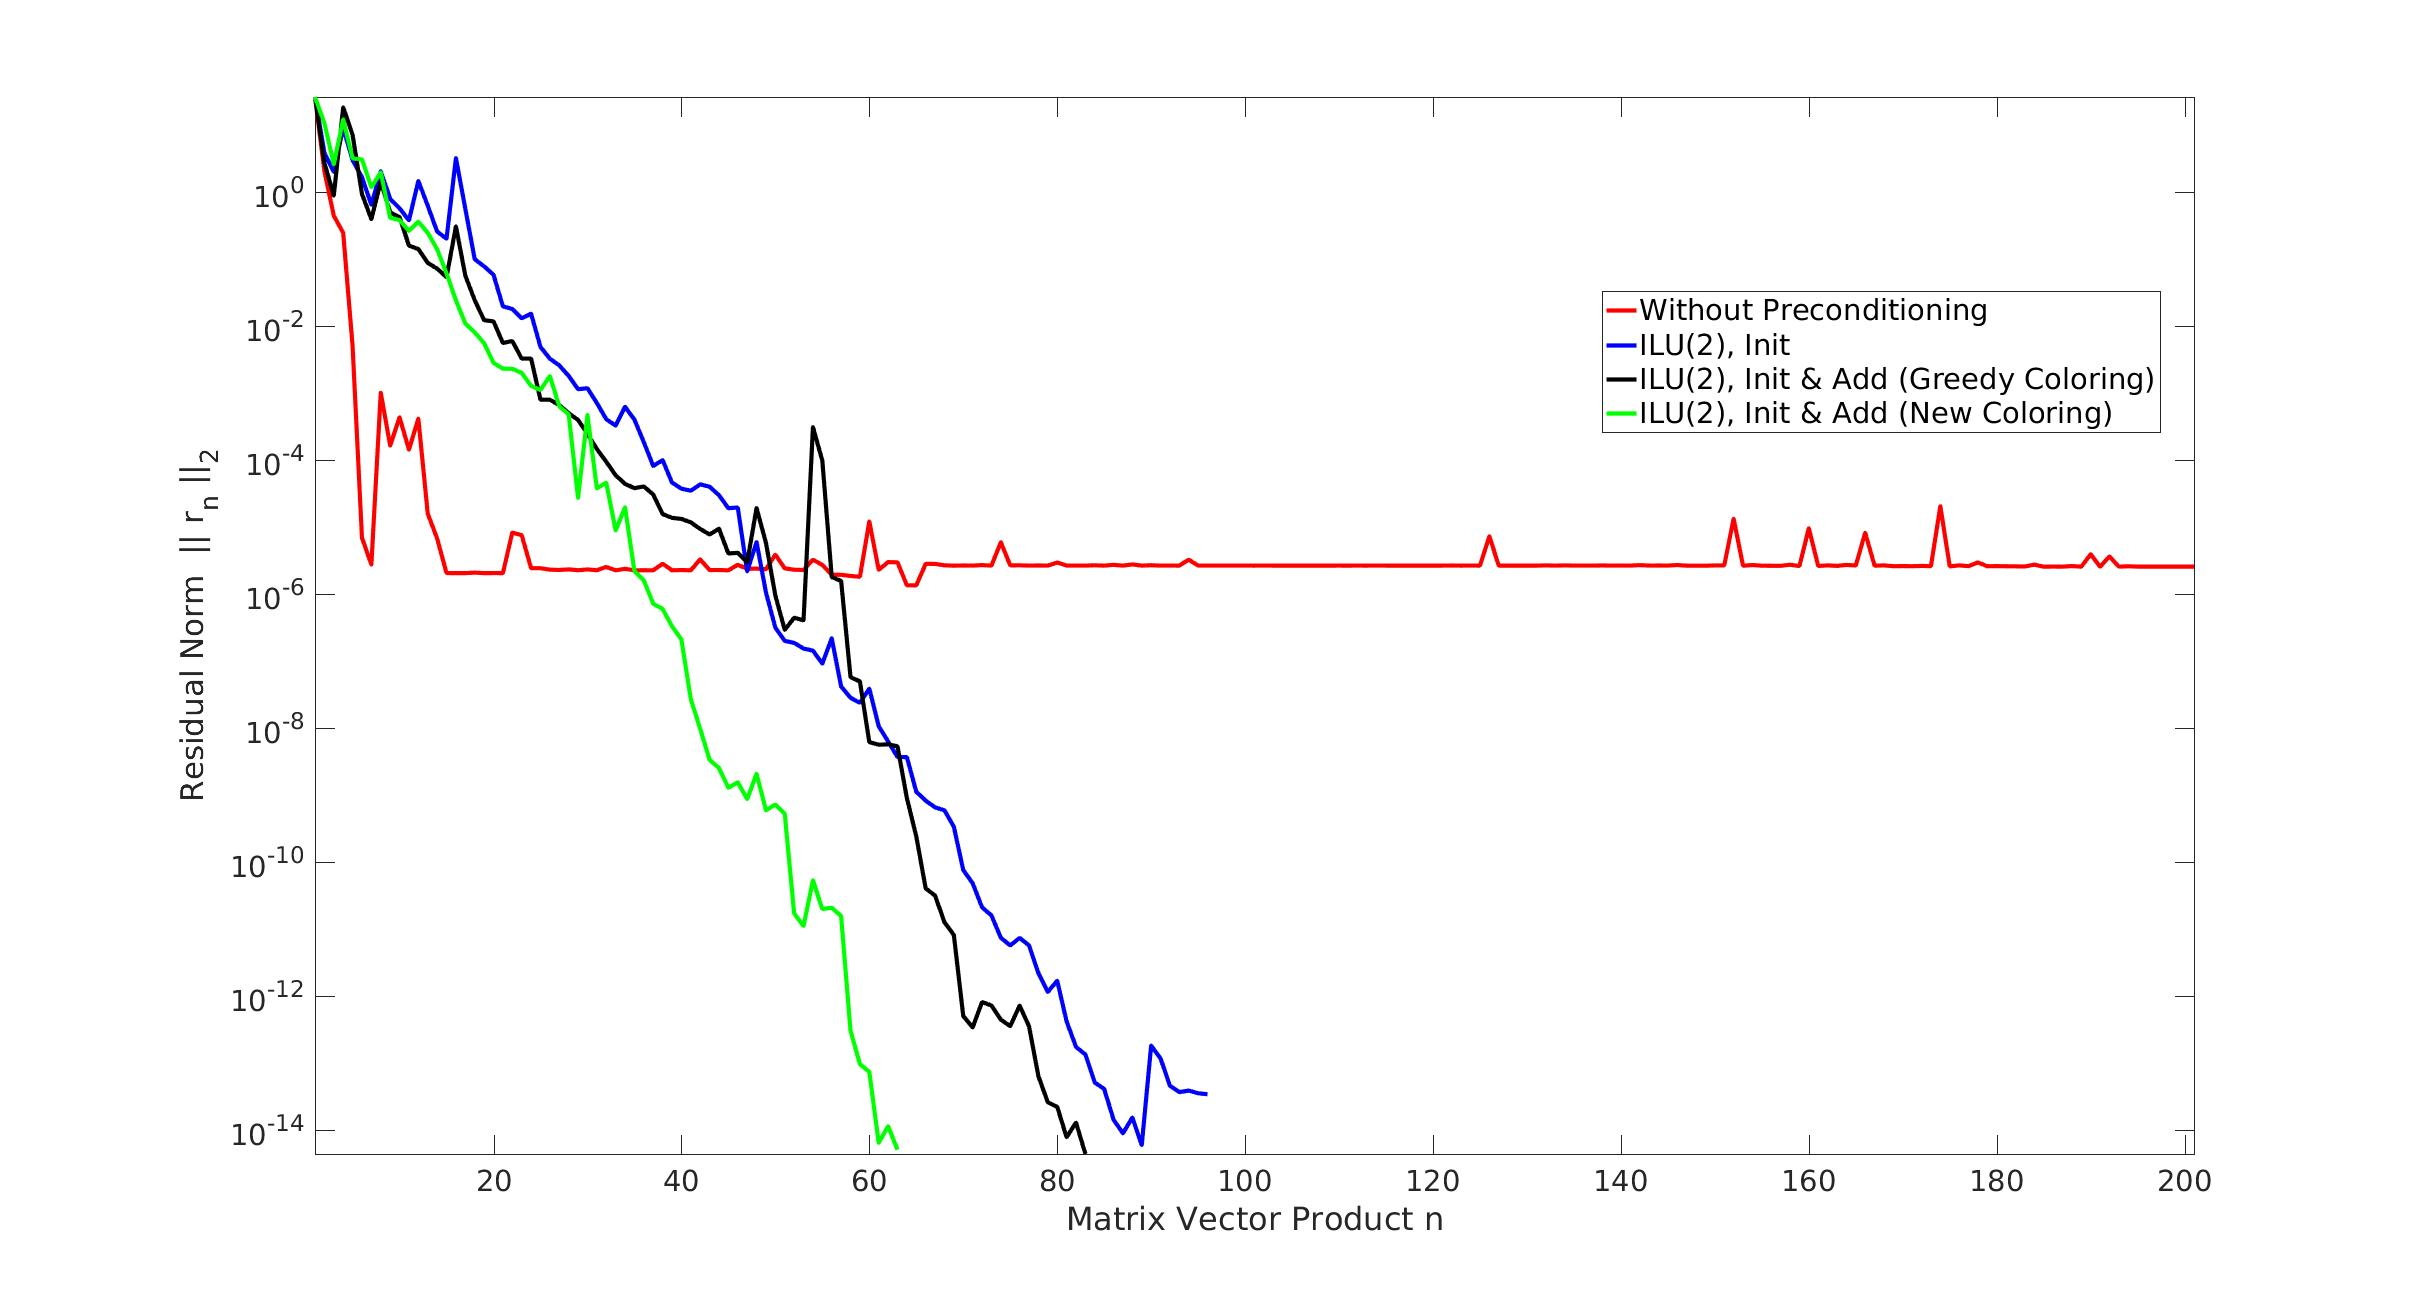
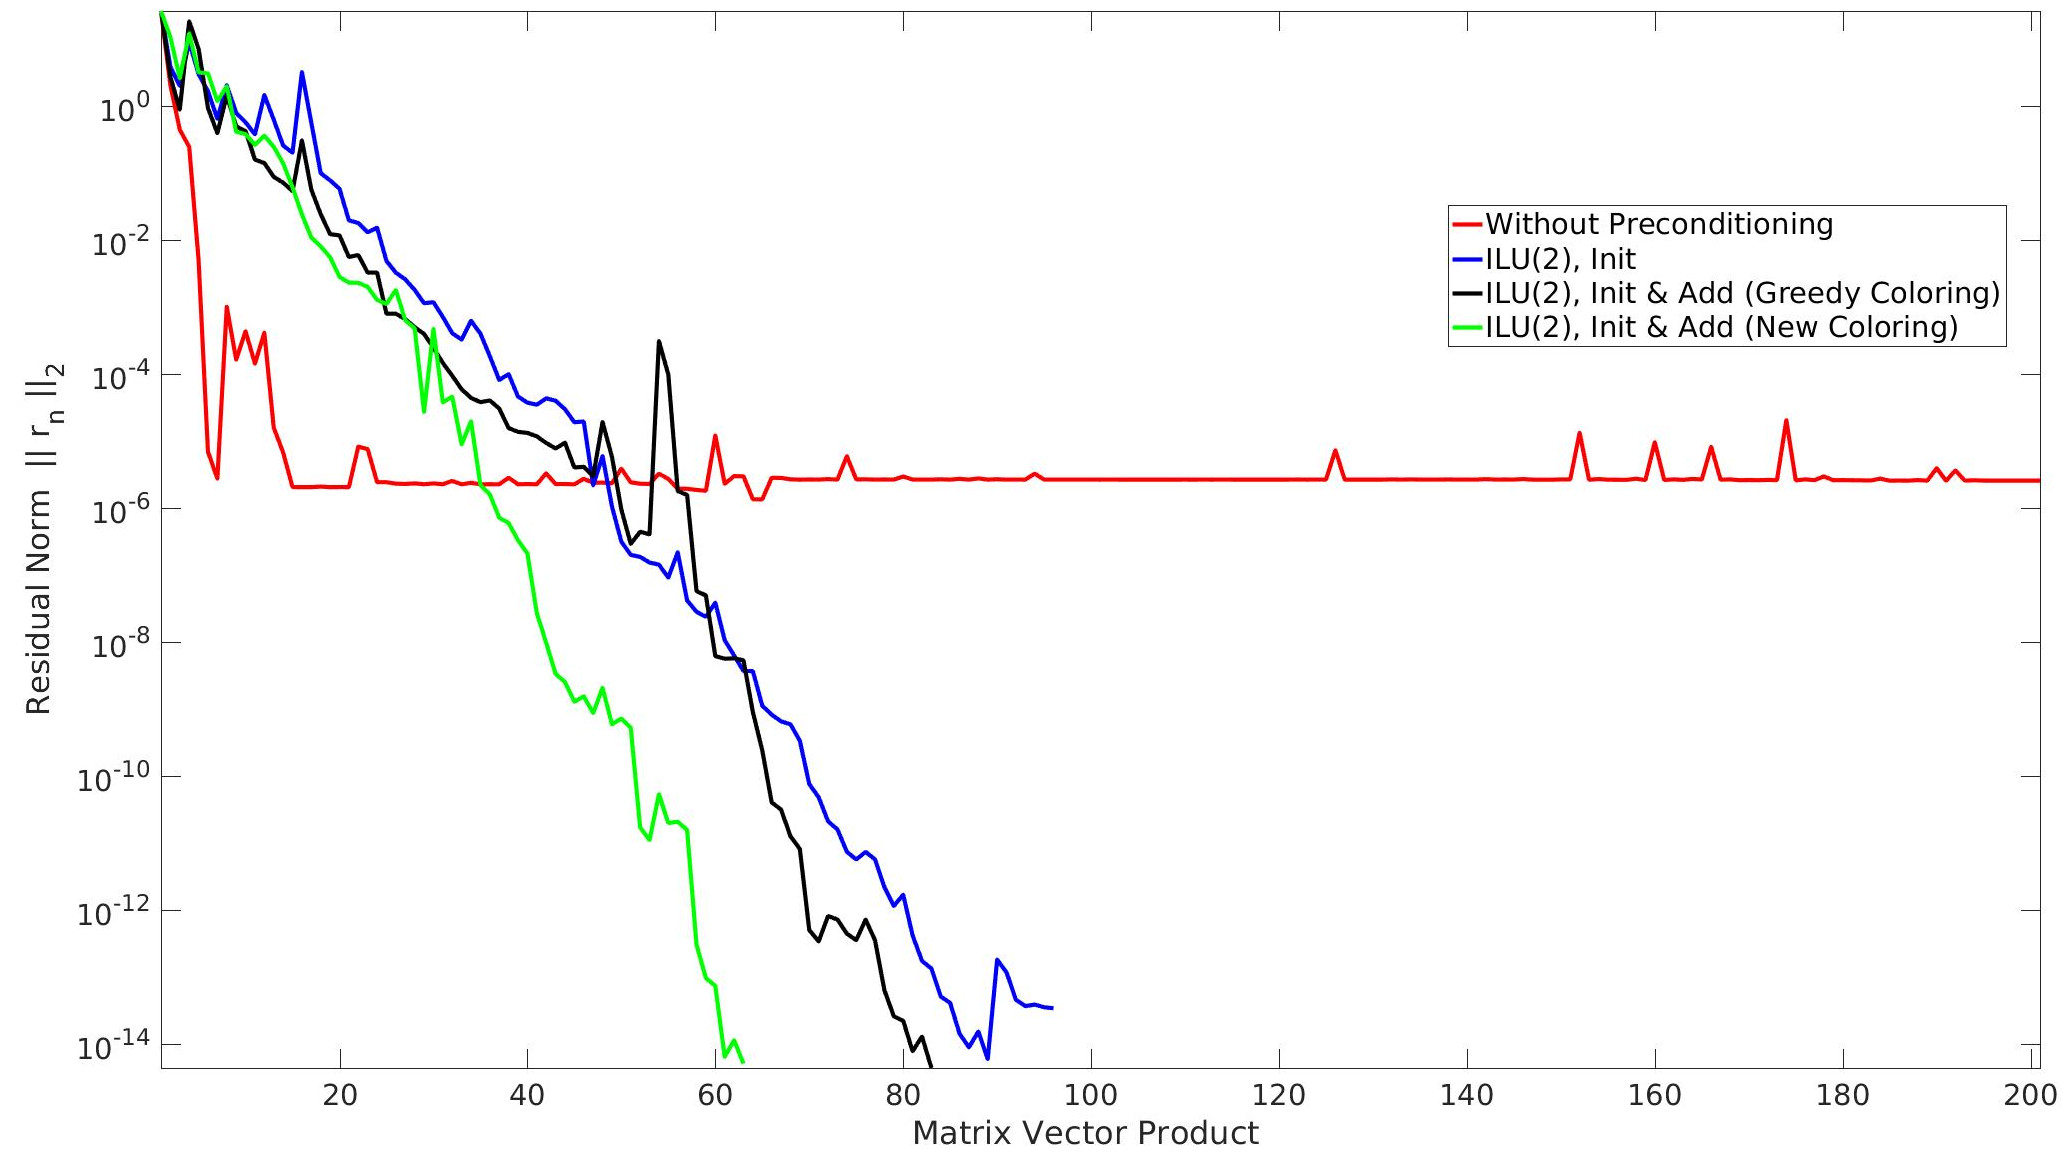
correcting pictures for application in geoscience

diff --git a/diss.tex b/diss.tex
@@ -149,7 +149,7 @@ my best friend \textit{Azin Azadi} for encouraging me throughout all my studies 
 \tableofcontents
 \chapter{Introduction}
 \pagenumbering{arabic}
-In \textit{Combinatorial Scientific Computing} (CSC), it is common to solve the scientific computing problems by the methods from the combinatorial mathematics. In particular, graphs are ubiquitous in the numerical linear algebra if the underlying matrices are sparse. 
+In scientific computing, it is common to solve the scientific computing problems by the methods from the combinatorial mathematics. In particular, graphs are ubiquitous in the numerical linear algebra if the underlying matrices are sparse. 
 
 The origin of the scientific computing problems in this thesis is the solution of a linear equation whose coefficient matrix is a sparse, large, and nonsingular Jacobian matrix $J$. 
 This Jacobian matrix is computed by Automatic Differentiation (AD)~\cite{Griewank2008EDP,Rall1981ADT} without numerical errors.
@@ -2051,28 +2051,50 @@ $$
 \label{f:geophysik_J_matrices}
 \end{figure}
 
+We solved a system of linear equations with the
+coefficient matrix $A$ with the BICGSTAB iterative solver.
+We compute the ILU preconditioning on a set of selected elements $S$
+instead of the whole Jacobian matrix. 
+We compare the convergence histories of the BICGSTAB solver 
+on the four different methods of preconditioning:
+without preconditioning,
+with preconditioning with $S=R_i$,
+with preconditioning with $S=R_i + R_a$ in which 
+the set $R_a$ is computed based on the greedy coloring,
+and with preconditioning with $S=R_i + R_a$ in which 
+the set $R_a$ is computed based on the new coloring.
+
+We do this comparison for different block sizes.
+The results of the computation of the block size
+$10$ and $20$ in
+Figure~\ref{f.convergence_greedy_new2} (Top) and
+Figure~\ref{f.convergence_greedy_new2} (Bottom), respectively.
+In both block $10$ and $20$, the preconditioning computed based
+on the new coloring converges in the fewer number of matrix-vector products.
+However, it does not mean that the bigger block results always in the 
+better convergence.
 
 \begin{figure}
 \centering
+%\includegraphics[width=0.8\linewidth]{jac_convergence_greedy_new_bl2.jpg}
 \includegraphics[width=\linewidth]{jac_convergence_greedy_new.jpg}
-\caption{}
-\label{f.convergence_greedy_new10}
-\end{figure}
-
-\begin{figure}
-\centering
-\includegraphics[width=\linewidth]{jac_convergence_greedy_new_bl2.jpg}
-\caption{}
+\vfill
+\includegraphics[width=\linewidth]{jac_convergence_greedy_new_bl20.jpg}
+\caption{
+The history of the residual norms is visualized based on the 
+the number of matrix-vector products comapring four different methods:
+without preconditioning (red color), 
+with preconditioning with $S=R_i$ (blue color),
+with preconditioning with $S=R_i + R_a$ in which 
+the set $R_a$ is computed based on the greedy coloring (black color),
+and with preconditioning with $S=R_i + R_a$ in which 
+the set $R_a$ is computed based on the new coloring (green color).
+The level parameter of the ILU preconditioning is $2$.
+(Top) The block size is $10$. 
+(Bottom) The block size is $20$.
+}
 \label{f.convergence_greedy_new2}
 \end{figure}
-
-\begin{figure}
-\centering
-\includegraphics[width=\linewidth]{jac_convergence_greedy_new_bl20.jpg}
-\caption{}
-\label{f.convergence_greedy_new20}
-\end{figure}
-
 
 %%%%%%%%%%%%%%%%%%%%%%%%%%%%%%%%%%%%%%%%%%%%%%%%%%%%%%%%%%%%%%%%%%%%%%%%%%%%%%%%%%%%%%%%%%%%%%
 \section{Partial coloring restricted to diagonal elements}
@@ -2081,7 +2103,6 @@ $$
 So far, we consider the partial Jacobian computation with an arbitrary
 set of required elements. However, a better heuristics is proposed if the
 pattern of the required elements is prior known.
-
 Lülfesmann~\cite{Lulfesmann2012Fap} shows that the minimum number of colors of
 the partial star bicoloring restricted to diagonals $\chi_{sb}$ is equal to
 the minimal number of colors of the partial distance-$2$ coloring restricted
@@ -2155,7 +2176,18 @@ make the required edges disjoint from each other which is the definition of a ma
 Based on the $\sparsifysymbol$-column intersection graph defined in~\defref{d.part.cig},
 it is easy to see
 that the partial coloring restricted to diagonal is still an NP-complete problem.
-We discussed this shortly in \appref{app.npcomp}.
+A suggestion for the proof is as follows.
+In general, we know that a graph coloring is an NP-complete problem
+(see \cite{np-complet-graph-coloring})).
+As \defref{d:cig} shows, a distance-2 coloring on the column-intersection graph
+is a classical graph coloring problem. So it is also NP-complete.
+We also define a similar graph model for the partial coloring problem in
+\cite{2016:01}. In this transformation from the matrix and graph, we encode also 
+required elements. It means we do not have any special
+edges later in the graph.
+Since the construction of this graph model is done in
+the polynomial time, this partial coloring problem remains NP-complete too.
+
 Therefore, we should still use some heuristics to compute these colorings.
 The examples in Table~\ref{table.starbic.d2.diag} from Florida sparse collection shows that the
 inequality in Theorem~\ref{t.matching} can happen. The second column of this table
@@ -2588,7 +2620,7 @@ During this chapter, we look first at the conceptual design of the software in
 \secref{s.game} to involve the students more into the usage of \mbox{EXPLAIN}.
 We explain how the conceptual design is finally visualized in \secref{s.vis}.
 After looking at the available modules in \secref{s.av.modules}, we look at
-some implementation details in \secref{s.impl.explain}.
+implementation details in \secref{s.impl.explain}.
 %%%%%%%%%%%%%%%%%%%%%%%%%%%%%%%%%%%%%%%%%%%%%%%%%%%%%%%%%%%%%%%%%%%%%%%%%%%%%%%%%%%%%
 \section{Conceptual design}
 \label{s.concept}
@@ -2610,11 +2642,15 @@ from the following list,
 \item Coloring any cell, column, or row of matrix
 \end{itemize}
 
-The input to the program is a sparse matrix. We build the corresponding graph from the the matrix.
+The input to the program is a sparse matrix. 
+We build the corresponding graph from the the matrix.
 The matrix and the corresponding graph are visualized side by side.
 The graph model can be from one of the following types,
 \begin{itemize}
-\item Simple graph: an undirected graph without self-loops considering the given matrix as an adjacency matrix of graph.
+\item Simple graph: an undirected graph without self-loops considering 
+the given symmetric matrix as an adjacency matrix of graph.
+\item Directed graph: a directed graph without self-loops considering
+the given asymmetric matrix as an adjacency matrix of graph.
 \item Column-intersection graph: the graph explained in \defref{d:cig}.
 \item Directed graph: the directed graph model explained in \cite{Gebremedhin05whatcolor}.
 \item Bipartite graph: the bipartite graph model explained in \defref{d.bip.graph}.
@@ -2650,16 +2686,19 @@ To engage the students more in the teaching process, we improved EXPLAIN such th
 more feedback from the software. Gamification of the software does this by interpreting each
 solution to a problem instance as a \textit{round}. The score diagram reporting the results of previous
 rounds also provides another feedback. The idea of gamification is used to solve a combinatorial
-minimization problem consisting of minimizing the size of the vertex separator while, at the same
+minimization problem. For example, the gamification in the nested dissection ordering 
+consists of minimizing the size of the vertex separator while, at the same
 time, balancing the size of the remaining components. The consistent use of colors in the graph
 view, the matrix view, and in the score diagram makes it easier for the student to understand
-minimizing a serial bottleneck in the Cholesky factorization while balancing the computational
-load.
+minimizing a serial bottleneck in the Cholesky factorization while balancing the computational load.
 %%%%%%%%%%%%%%%%%%%%%%%%%%%%%%%%%%%%%%%%%%%%%%%%%%%%%%%%%%%%%%%%%%%%%%%%%%%%%%%%%%%%%%
 \section{Visualization}
 \label{s.vis}
-Based on our goal to visualized the connection of the algorithm on the matrix and graph sides simultaneously,
-we designed the software to have the four sections as illustrated in \figref{explain-design} (Left).
+Based on our goal to visualize the connection of the algorithm on the matrix and graph sides simultaneously,
+we design the software to have the four sections and a header as illustrated in \figref{explain-design} (Left).
+The header contains the textual feedback to the user. For example, the completion of a round
+is a textual feedback. The four sections are the graph view, the matrix view, the control panel, and
+the feedback diagram.
 The graph is drawn on the circular layout first. The layout can be selected later
 in the control panel. The matrix is visualized also at the right side and
 their nonzero elements are shown by the notation $\times$.
@@ -2681,6 +2720,11 @@ their nonzero elements are shown by the notation $\times$.
 \section{Available modules}
 \label{s.av.modules}
 %%%%%%%%%%%%%%%%%%%%%%%%%%%%%%%%%%%%%%%%%%%%%%%%%%%%%%%%%%%%%%%%%%%%%%%%%%%%%%%%%%%%%
+In \mbox{EXPLAIN}, we have already implemented several modules.
+After discussing the module for the full one-sided Jacobian compression,
+we explain the modules for the full and partial two-sided Jacobian computation. 
+Then, two other modules of nested dissection ordering and parallel matrix vector
+are presented to see other features of the software.
 %%%%%%%%%%%%%%%%%%%%%%%%%%%%%%%%%%%%%%%%%%%%%%%%%%%%%%%%%%%%%%%%%%%%%%%%%%%%%%%%%%%%%
 \subsection{Column compression}
 \label{s.column-compression}
@@ -2779,7 +2823,7 @@ S =
 \end{pmatrix}.
 $$
 %%%%%%%%%%%%%%%%%%%%%%%%%%%%%%%%%%%%%%%%%%%%%%%%%%%%%%%%%%%%%%%%%%%%%%%%%%%%%%%%%%%%%
-\subsection{Bidirectional compression}
+\subsection{Full and partial Jacobian computation}%Bidirectional compression}
 \label{s.bidirectional}
 %%%%%%%%%%%%%%%%%%%%%%%%%%%%%%%%%%%%%%%%%%%%%%%%%%%%%%%%%%%%%%%%%%%%%%%%%%%%%%%%%%%%%
 In our publication~\cite{2014:09}, we design and implement an interactive module to
@@ -2901,16 +2945,22 @@ patterns. Another problem instance with a different nonzero pattern is shown in
 Fig.~\ref{f.arrow-shaped4}~(b). Here, it is more difficult to find out that this star
 bicoloring with $4$ colors is indeed an exact solution to \MinStaBic.
 
-\subsection{Partial Jacobian computation}
+%\subsection{Partial Jacobian computation}
 We extend the previous module of matrix compression to support
 the partial Jacobian computation. Here, the student should
 first select the required elements which are edges in Bipartite graphs.
-So, when the student clicks on the edges, the colors of those edges change to red
-and the corresponding nonzero elements are added to required elements.
+So, when the student clicks on the edges, the colors of those edges 
+as well as the color of the nonzero elements will be changed to red.
+These selected edges and nonzero elements are added to the required elements
+as shown in Figure~\ref{partial_coloring_bad_coloring}.
 
-As soon as the student starts to click the vertices, the required elements
+As soon as the student starts to click the edges, the required elements
 are become fixed, i.e. no new required elements can be added.
 The other processes of coloring are completely like the previous module.
+Figure~\ref{partial_coloring_good_coloring} (a) shows a selection in which the graph coloring
+needs at least four colors since the user did not select any row vertex.
+A better coloring is possible as shown in Figure~\ref{partial_coloring_good_coloring} (b)
+in which a row vertex is selected first.
 
 \begin{figure}
 \centering
@@ -2922,8 +2972,9 @@ The other processes of coloring are completely like the previous module.
 \includegraphics[width=0.18\textwidth]{arrow_shaped_partial_coloring_init_graph}
 \includegraphics[width=0.26\textwidth]{arrow_shaped_partial_coloring_init_matrix}}
 \caption{
-(a) 
-(b)}
+(a) The inital view of the module when no required edges are selected.
+(b) The user selects first the required edges. The selected edge and the corresponding
+nonzero of the matrix become the red color.}
 \label{partial_coloring_bad_coloring}
 \end{figure}
 
@@ -2937,8 +2988,9 @@ The other processes of coloring are completely like the previous module.
 \includegraphics[width=0.18\textwidth]{arrow_shaped_partial_coloring_init_graph_good_coloring}
 \includegraphics[width=0.26\textwidth]{arrow_shaped_partial_coloring_init_matrix_good_coloring}}
 \caption{
-(a) 
-(b)}
+(a) A graph coloring with four colors in which only column vertices are selected.
+(b) A better graph coloring with three vertices in which the user colors 
+a row vertex first.}
 \label{partial_coloring_good_coloring}
 \end{figure}
 
@@ -3654,21 +3706,6 @@ $V$. The saturation degree of the vertex $v$ is the number of different colored 
 order whenever $v_i$ has minimum degree in the maximal subgraph on the vertices $v_1,v_2,...,v_i$ for all $i$.
 \end{itemize}
 The computation of this ordering can have a higher complexity than the complexity of the greedy coloring ($\mathcal{O}(n+m)$) or to have the same complexity. For example, the \textit{SLO} ordering has the same time complexity~\cite{ordering1} although it has the different space complexity. These various orderings should be considered in new heuristic coloring which we propose. to improve the results of coloring.
-
-%%%%%%%%%%%%%%%%%%%%%%%%%%%%%%%%%%%%%%%%%%%%%%%%%%%%%%%%%%%
-\chapter{NP-completeness of partial coloring restricted to diagonals}
-\label{app.npcomp}
-%%%%%%%%%%%%%%%%%%%%%%%%%%%%%%%%%%%%%%%%%%%%%%%%%%%%%%%%%%%
-In general, we know that a graph coloring is an NP-complete problem
-(see \cite{np-complet-graph-coloring})).
-As \defref{d:cig} shows, a distance-2 coloring on the column-intersection graph
-is a classical graph coloring problem. So it is also NP-complete.
-We also define a similar graph model for the partial coloring problem in
-\cite{2016:01}. In this transformation from the matrix and graph, we encode also 
-required elements. It means we do not have any special
-edges later in the graph.
-Since the construction of this graph model is done in
-the polynomial time, this partial coloring problem remains NP-complete too.
 
 %%%%%%%%%%%%%%%%%%%%%%%%%%%%%%%%%%%%%%%%%%%%%%%%%%%%%%%%%%%
 \chapter{A sample source code from EXPLAIN}
